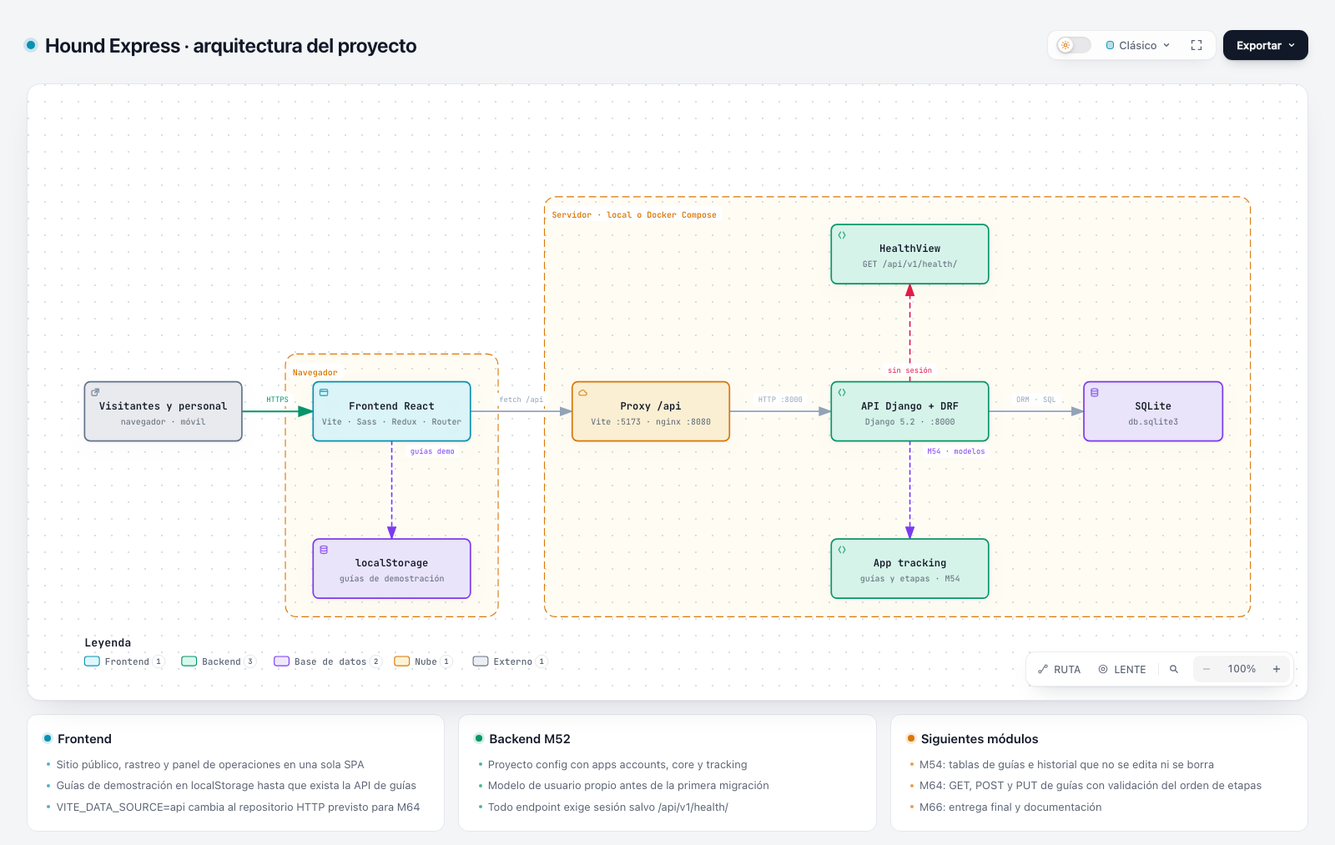
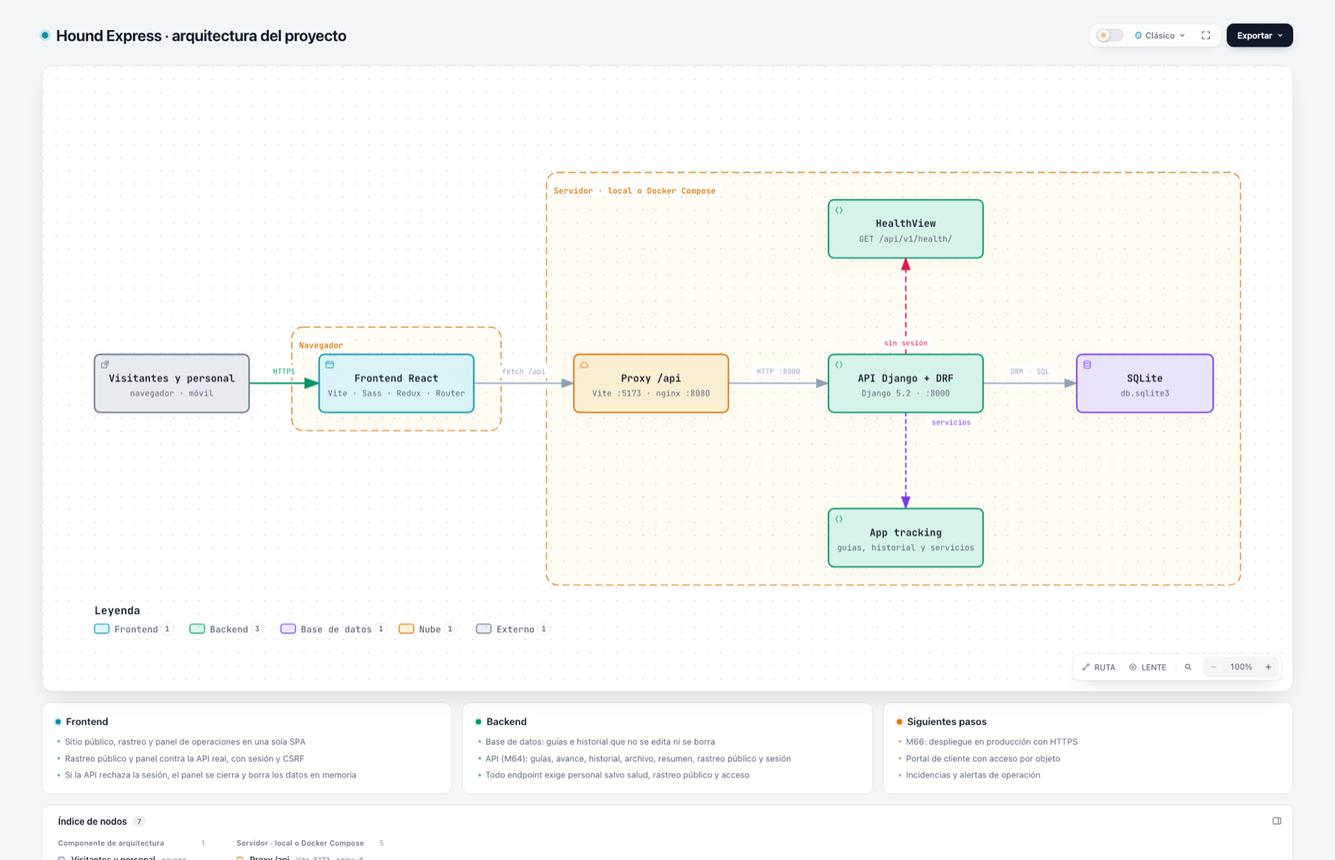
docs(diagramas): actualiza arquitectura y secuencia con la API real

diff --git a/docs/diagramas/arquitectura.html b/docs/diagramas/arquitectura.html
@@ -5013,7 +5013,7 @@ OTHER DEALINGS IN THE FONT SOFTWARE.
         <rect width="100%" height="100%" fill="url(#grid)" />
 
         <!-- Boundaries (behind everything) -->
-        <rect data-graph-role="structural-frame" data-composition-frame-kind="region" data-composition-frame-id="0" data-composition-frame-label="Navegador" x="257" y="270" width="230" height="284" rx="12" class="c-region" stroke-width="1"/>
+        <rect data-graph-role="structural-frame" data-composition-frame-kind="region" data-composition-frame-id="0" data-composition-frame-label="Navegador" x="257" y="270" width="230" height="114" rx="12" class="c-region" stroke-width="1"/>
 
         <rect data-graph-role="structural-frame" data-composition-frame-kind="region" data-composition-frame-id="1" data-composition-frame-label="Servidor · local o Docker Compose" x="537" y="100" width="763" height="454" rx="12" class="c-region" stroke-width="1"/>
 
@@ -5035,16 +5035,12 @@ OTHER DEALINGS IN THE FONT SOFTWARE.
           <path data-edge-from="api" data-edge-to="db" data-edge-label="ORM · SQL" data-edge-key="3" data-edge-id="api-db" data-composition-points="1017,332;1120,332" data-composition-crossover="halo" data-composition-independent="true" d="M 1017 332 L 1120 332" class="a-default" stroke-width="1.5" marker-end="url(#arrowhead)"/>
         </g>
         <g data-graph-role="automatic-crossover" style="--step:4">
-          <path data-graph-role="automatic-crossover-underlay" d="M 372 364 L 372 470" fill="none" stroke="var(--mask)" stroke-width="5.5" stroke-linecap="round" stroke-linejoin="round" pointer-events="none"/>
-          <path data-edge-from="spa" data-edge-to="storage" data-edge-label="guías demo" data-edge-key="4" data-edge-id="spa-storage" data-composition-points="372,364;372,470" data-composition-crossover="halo" d="M 372 364 L 372 470" class="a-dashed" stroke-width="1.5" marker-end="url(#arrowhead-dashed)"/>
+          <path data-graph-role="automatic-crossover-underlay" d="M 932 364 L 932 470" fill="none" stroke="var(--mask)" stroke-width="5.5" stroke-linecap="round" stroke-linejoin="round" pointer-events="none"/>
+          <path data-edge-from="api" data-edge-to="tracking" data-edge-label="servicios" data-edge-key="4" data-edge-id="api-tracking" data-composition-points="932,364;932,470" data-composition-crossover="halo" d="M 932 364 L 932 470" class="a-dashed" stroke-width="1.5" marker-end="url(#arrowhead-dashed)"/>
         </g>
         <g data-graph-role="automatic-crossover" style="--step:5">
-          <path data-graph-role="automatic-crossover-underlay" d="M 932 364 L 932 470" fill="none" stroke="var(--mask)" stroke-width="5.5" stroke-linecap="round" stroke-linejoin="round" pointer-events="none"/>
-          <path data-edge-from="api" data-edge-to="tracking" data-edge-label="M54 · modelos" data-edge-key="5" data-edge-id="api-tracking" data-composition-points="932,364;932,470" data-composition-crossover="halo" d="M 932 364 L 932 470" class="a-dashed" stroke-width="1.5" marker-end="url(#arrowhead-dashed)"/>
-        </g>
-        <g data-graph-role="automatic-crossover" style="--step:6">
           <path data-graph-role="automatic-crossover-underlay" d="M 932 300 L 932 194" fill="none" stroke="var(--mask)" stroke-width="5.5" stroke-linecap="round" stroke-linejoin="round" pointer-events="none"/>
-          <path data-edge-from="api" data-edge-to="health" data-edge-label="sin sesión" data-edge-key="6" data-edge-id="api-health" data-composition-points="932,300;932,194" data-composition-crossover="halo" data-composition-independent="true" d="M 932 300 L 932 194" class="a-security" stroke-width="1.5" marker-end="url(#arrowhead-security)"/>
+          <path data-edge-from="api" data-edge-to="health" data-edge-label="sin sesión" data-edge-key="5" data-edge-id="api-health" data-composition-points="932,300;932,194" data-composition-crossover="halo" data-composition-independent="true" d="M 932 300 L 932 194" class="a-security" stroke-width="1.5" marker-end="url(#arrowhead-security)"/>
         </g>
 
         <!-- Components -->
@@ -5108,27 +5104,15 @@ OTHER DEALINGS IN THE FONT SOFTWARE.
         <text data-detail="context" x="1195" y="346" class="t-muted" font-size="9" text-anchor="middle">db.sqlite3</text>
         </g>
 
-        <g id="node-storage" data-node-id="storage" data-node-label="localStorage" tabindex="0" role="button" aria-label="Enfocar localStorage, guías de demostración, Navegador" aria-pressed="false" data-node-kind="database" data-node-sublabel="guías de demostración" data-node-context="Navegador">
-          <title>localStorage · guías de demostración · Navegador</title>
-          <rect x="287" y="470" width="170" height="64" rx="6" class="c-mask"/>
-          <rect x="287" y="470" width="170" height="64" rx="6" class="c-database" stroke-width="1.5"/>
-          <g aria-hidden="true" data-semantic-sigil="database" class="semantic-sigil s-database" transform="translate(293 476) scale(0.6875)">
-            <ellipse cx="8" cy="4" rx="5" ry="2"/>
-            <path d="M3 4v8c0 1.1 2.2 2 5 2s5-.9 5-2V4M3 8c0 1.1 2.2 2 5 2s5-.9 5-2"/>
-          </g>
-          <text data-node-label="" data-detail-anchor="" x="372" y="500" class="t-primary" font-size="11" font-weight="600" text-anchor="middle">localStorage</text>
-        <text data-detail="context" x="372" y="516" class="t-muted" font-size="9" text-anchor="middle">guías de demostración</text>
-        </g>
-
-        <g id="node-tracking" data-node-id="tracking" data-node-label="App tracking" tabindex="0" role="button" aria-label="Enfocar App tracking, guías y etapas · M54, Servidor · local o Docker Compose" aria-pressed="false" data-node-kind="backend" data-node-sublabel="guías y etapas · M54" data-node-tag="planeado" data-node-context="Servidor · local o Docker Compose">
-          <title>App tracking · guías y etapas · M54 · Servidor · local o Docker Compose · planeado</title>
+        <g id="node-tracking" data-node-id="tracking" data-node-label="App tracking" tabindex="0" role="button" aria-label="Enfocar App tracking, guías, historial y servicios, Servidor · local o Docker Compose" aria-pressed="false" data-node-kind="backend" data-node-sublabel="guías, historial y servicios" data-node-tag="planeado" data-node-context="Servidor · local o Docker Compose">
+          <title>App tracking · guías, historial y servicios · Servidor · local o Docker Compose · planeado</title>
           <rect x="847" y="470" width="170" height="64" rx="6" class="c-mask"/>
           <rect x="847" y="470" width="170" height="64" rx="6" class="c-backend" stroke-width="1.5"/>
           <g aria-hidden="true" data-semantic-sigil="backend" class="semantic-sigil s-backend" transform="translate(853 476) scale(0.6875)">
             <path d="M6 3 3 8l3 5M10 3l3 5-3 5"/>
           </g>
           <text data-node-label="" data-detail-anchor="" x="932" y="500" class="t-primary" font-size="11" font-weight="600" text-anchor="middle">App tracking</text>
-        <text data-detail="context" x="932" y="516" class="t-muted" font-size="9" text-anchor="middle">guías y etapas · M54</text>
+        <text data-detail="context" x="932" y="516" class="t-muted" font-size="9" text-anchor="middle">guías, historial y servicios</text>
         <text data-detail="fine" x="932" y="526" class="t-backend" font-size="7" text-anchor="middle">planeado</text>
         </g>
 
@@ -5161,15 +5145,11 @@ OTHER DEALINGS IN THE FONT SOFTWARE.
           <rect x="1041.9" y="312" width="53.199999999999996" height="14" rx="3" class="c-mask"/>
           <text x="1068.5" y="322" class="t-edge-default" font-size="8" text-anchor="middle">ORM · SQL</text>
         </g>
-        <g data-detail="context" data-edge-from="spa" data-edge-to="storage" data-edge-label="guías demo" data-edge-key="4" data-edge-id="spa-storage">
-          <rect x="387" y="368" width="58" height="14" rx="3" class="c-mask"/>
-          <text x="416" y="378" class="t-edge-dashed" font-size="8" text-anchor="middle">guías demo</text>
+        <g data-detail="context" data-edge-from="api" data-edge-to="tracking" data-edge-label="servicios" data-edge-key="4" data-edge-id="api-tracking">
+          <rect x="955.4" y="368" width="53.199999999999996" height="14" rx="3" class="c-mask"/>
+          <text x="982" y="378" class="t-edge-dashed" font-size="8" text-anchor="middle">servicios</text>
         </g>
-        <g data-detail="context" data-edge-from="api" data-edge-to="tracking" data-edge-label="M54 · modelos" data-edge-key="5" data-edge-id="api-tracking">
-          <rect x="945.8" y="368" width="72.4" height="14" rx="3" class="c-mask"/>
-          <text x="982" y="378" class="t-edge-dashed" font-size="8" text-anchor="middle">M54 · modelos</text>
-        </g>
-        <g data-detail="context" data-edge-from="api" data-edge-to="health" data-edge-label="sin sesión" data-edge-key="6" data-edge-id="api-health">
+        <g data-detail="context" data-edge-from="api" data-edge-to="health" data-edge-label="sin sesión" data-edge-key="5" data-edge-id="api-health">
           <rect x="903" y="280" width="58" height="14" rx="3" class="c-mask"/>
           <text x="932" y="290" class="t-edge-security" font-size="8" text-anchor="middle">sin sesión</text>
         </g>
@@ -5392,32 +5372,32 @@ OTHER DEALINGS IN THE FONT SOFTWARE.
         </div>
         <ul>
           <li>Sitio público, rastreo y panel de operaciones en una sola SPA</li>
-          <li>Guías de demostración en localStorage hasta que exista la API de guías</li>
-          <li>VITE_DATA_SOURCE=api cambia al repositorio HTTP previsto para M64</li>
+          <li>Rastreo público y panel contra la API real, con sesión y CSRF</li>
+          <li>Si la API rechaza la sesión, el panel se cierra y borra los datos en memoria</li>
         </ul>
       </div>
 
       <div class="card">
         <div class="card-header">
           <div class="card-dot emerald"></div>
-          <h3>Backend M52</h3>
+          <h3>Backend</h3>
         </div>
         <ul>
-          <li>Proyecto config con apps accounts, core y tracking</li>
-          <li>Modelo de usuario propio antes de la primera migración</li>
-          <li>Todo endpoint exige sesión salvo /api/v1/health/</li>
+          <li>Base de datos: guías e historial que no se edita ni se borra</li>
+          <li>API (M64): guías, avance, historial, archivo, resumen, rastreo público y sesión</li>
+          <li>Todo endpoint exige personal salvo salud, rastreo público y acceso</li>
         </ul>
       </div>
 
       <div class="card">
         <div class="card-header">
           <div class="card-dot amber"></div>
-          <h3>Siguientes módulos</h3>
+          <h3>Siguientes pasos</h3>
         </div>
         <ul>
-          <li>M54: tablas de guías e historial que no se edita ni se borra</li>
-          <li>M64: GET, POST y PUT de guías con validación del orden de etapas</li>
-          <li>M66: entrega final y documentación</li>
+          <li>M66: despliegue en producción con HTTPS</li>
+          <li>Portal de cliente con acceso por objeto</li>
+          <li>Incidencias y alertas de operación</li>
         </ul>
       </div>
     </div>

diff --git a/docs/diagramas/secuencia-consultas.html b/docs/diagramas/secuencia-consultas.html
@@ -5135,19 +5135,19 @@ OTHER DEALINGS IN THE FONT SOFTWARE.
         </g>
         </g>
 
-        <g data-edge-from="repo" data-edge-to="api" data-edge-label="GET /api/v1/guides/{n}/" data-edge-key="11" data-edge-id="api-http">
-          <path data-composition-edge-from="repo" data-composition-edge-to="api" data-composition-edge-id="api-http" data-composition-points="478,575;634.75,575" d="M 478 575 L 634.75 575" class="a-dashed" stroke-width="1.4" marker-end="url(#arrowhead-dashed)"/>
+        <g data-edge-from="repo" data-edge-to="api" data-edge-label="GET /api/v1/public/track/?numbers=n" data-edge-key="11" data-edge-id="api-http">
+          <path data-composition-edge-from="repo" data-composition-edge-to="api" data-composition-edge-id="api-http" data-composition-points="478,575;634.75,575" d="M 478 575 L 634.75 575" class="a-default" stroke-width="1.4" marker-end="url(#arrowhead)"/>
         <g data-detail="context">
-          <rect x="474.475" y="555" width="163.79999999999998" height="18" rx="3" class="c-mask"/>
-          <text x="556.375" y="565" class="t-edge-dashed" font-size="11" text-anchor="middle">GET /api/v1/guides/{n}/</text>
+          <rect x="434.875" y="555" width="243" height="18" rx="3" class="c-mask"/>
+          <text x="556.375" y="565" class="t-muted" font-size="11" text-anchor="middle">GET /api/v1/public/track/?numbers=n</text>
         </g>
         </g>
 
         <g data-edge-from="api" data-edge-to="db" data-edge-label="guía e historial" data-edge-key="12" data-edge-id="api-query">
-          <path data-composition-edge-from="api" data-composition-edge-to="db" data-composition-edge-id="api-query" data-composition-points="648.75,605;805.5,605" d="M 648.75 605 L 805.5 605" class="a-dashed" stroke-width="1.4" marker-end="url(#arrowhead-dashed)"/>
+          <path data-composition-edge-from="api" data-composition-edge-to="db" data-composition-edge-id="api-query" data-composition-points="648.75,605;805.5,605" d="M 648.75 605 L 805.5 605" class="a-default" stroke-width="1.4" marker-end="url(#arrowhead)"/>
         <g data-detail="context">
           <rect x="668.325" y="585" width="117.6" height="18" rx="3" class="c-mask"/>
-          <text x="727.125" y="595" class="t-edge-dashed" font-size="11" text-anchor="middle">guía e historial</text>
+          <text x="727.125" y="595" class="t-muted" font-size="11" text-anchor="middle">guía e historial</text>
         </g>
         </g>
 
@@ -5181,12 +5181,12 @@ OTHER DEALINGS IN THE FONT SOFTWARE.
           <text x="62" y="141" class="t-dim" font-size="9" font-weight="600">Estado de la API · real desde M52</text>
         </g>
         <g data-graph-role="segment-label" data-segment-id="1">
-          <rect x="56" y="303" width="175.20000000000002" height="18" rx="3" class="c-mask"/>
-          <text x="62" y="316" class="t-dim" font-size="9" font-weight="600">Rastreo · datos de demostración</text>
+          <rect x="56" y="303" width="180.4" height="18" rx="3" class="c-mask"/>
+          <text x="62" y="316" class="t-dim" font-size="9" font-weight="600">Pruebas · repositorio en memoria</text>
         </g>
         <g data-graph-role="segment-label" data-segment-id="2">
-          <rect x="56" y="458" width="201.20000000000002" height="18" rx="3" class="c-mask"/>
-          <text x="62" y="471" class="t-dim" font-size="9" font-weight="600">Rastreo · VITE_DATA_SOURCE=api (M64)</text>
+          <rect x="56" y="458" width="190.8" height="18" rx="3" class="c-mask"/>
+          <text x="62" y="471" class="t-dim" font-size="9" font-weight="600">Rastreo público contra la API real</text>
         </g>
 
         <!-- Participants -->
@@ -5216,8 +5216,8 @@ OTHER DEALINGS IN THE FONT SOFTWARE.
           <text data-detail="context" x="300.25" y="122" class="t-muted" font-size="7" text-anchor="middle">páginas y hooks</text>
         </g>
 
-        <g id="node-repo" data-node-id="repo" data-node-label="GuideRepository" tabindex="0" role="button" aria-label="Enfocar GuideRepository, demo o HTTP, Participante de secuencia" aria-pressed="false" data-node-kind="frontend" data-node-sublabel="demo o HTTP" data-node-context="Participante de secuencia">
-          <title>GuideRepository · demo o HTTP · Participante de secuencia</title>
+        <g id="node-repo" data-node-id="repo" data-node-label="GuideRepository" tabindex="0" role="button" aria-label="Enfocar GuideRepository, cliente HTTP, Participante de secuencia" aria-pressed="false" data-node-kind="frontend" data-node-sublabel="cliente HTTP" data-node-context="Participante de secuencia">
+          <title>GuideRepository · cliente HTTP · Participante de secuencia</title>
           <rect x="403.5" y="72" width="135" height="60" rx="6" class="c-mask"/>
           <rect x="403.5" y="72" width="135" height="60" rx="6" class="c-frontend" stroke-width="1.5"/>
           <g aria-hidden="true" data-semantic-sigil="frontend" class="semantic-sigil s-frontend" transform="translate(409.5 78) scale(0.6875)">
@@ -5227,7 +5227,7 @@ OTHER DEALINGS IN THE FONT SOFTWARE.
             <circle cx="6.3" cy="4.8" r=".7" class="sigil-fill"/>
           </g>
           <text data-node-label="" data-detail-anchor="" x="471" y="108" class="t-primary" font-size="11" font-weight="600" text-anchor="middle">GuideRepository</text>
-          <text data-detail="context" x="471" y="122" class="t-muted" font-size="7" text-anchor="middle">demo o HTTP</text>
+          <text data-detail="context" x="471" y="122" class="t-muted" font-size="7" text-anchor="middle">cliente HTTP</text>
         </g>
 
         <g id="node-api" data-node-id="api" data-node-label="API Django" tabindex="0" role="button" aria-label="Enfocar API Django, /api/v1/, Participante de secuencia" aria-pressed="false" data-node-kind="backend" data-node-sublabel="/api/v1/" data-node-context="Participante de secuencia">
@@ -5264,13 +5264,9 @@ OTHER DEALINGS IN THE FONT SOFTWARE.
             <path d="M 200 751 L 234 751" class="a-default" stroke-width="1.4" stroke-dasharray="3,5" marker-end="url(#arrowhead)"/>
             <text x="243" y="754" class="t-muted" font-size="10" font-weight="500">respuesta</text>
           </g>
-          <g data-legend-semantic-kind="dashed" data-legend-x="310" data-legend-baseline="754" data-legend-width="118">
-            <path d="M 310 751 L 344 751" class="a-dashed" stroke-width="1.4" marker-end="url(#arrowhead-dashed)"/>
-            <text x="353" y="754" class="t-muted" font-size="10" font-weight="500">traza asíncrona</text>
-          </g>
-          <g data-legend-semantic-kind="default" data-legend-x="450" data-legend-baseline="754" data-legend-width="78">
-            <path d="M 450 751 L 484 751" class="a-default" stroke-width="1.4" marker-end="url(#arrowhead)"/>
-            <text x="493" y="754" class="t-muted" font-size="10" font-weight="500">mensaje</text>
+          <g data-legend-semantic-kind="default" data-legend-x="310" data-legend-baseline="754" data-legend-width="78">
+            <path d="M 310 751 L 344 751" class="a-default" stroke-width="1.4" marker-end="url(#arrowhead)"/>
+            <text x="353" y="754" class="t-muted" font-size="10" font-weight="500">mensaje</text>
           </g>
         </g>
       </svg>
@@ -5464,23 +5460,23 @@ OTHER DEALINGS IN THE FONT SOFTWARE.
       <div class="card">
         <div class="card-header">
           <div class="card-dot amber"></div>
-          <h3>Demostración</h3>
+          <h3>Pruebas</h3>
         </div>
         <ul>
-          <li>demoRepository lee y escribe guías en localStorage</li>
-          <li>La interfaz lo indica con el aviso de datos de demostración</li>
+          <li>demoRepository solo se usa en las pruebas de Jest</li>
+          <li>La interfaz usa la API por defecto</li>
         </ul>
       </div>
 
       <div class="card">
         <div class="card-header">
           <div class="card-dot cyan"></div>
-          <h3>Cuando llegue M64</h3>
+          <h3>Rastreo real</h3>
         </div>
         <ul>
-          <li>httpRepository llama a /api/v1/guides/</li>
-          <li>404 se muestra como guía no encontrada</li>
-          <li>Los mensajes punteados todavía no existen en el backend</li>
+          <li>GuideRepository normaliza el número y llama a la API</li>
+          <li>Responde con campos mínimos y una ciudad de la lista cerrada</li>
+          <li>Un número inexistente se muestra como no encontrado</li>
         </ul>
       </div>
     </div>

diff --git a/docs/diagramas/fuentes/generar.py b/docs/diagramas/fuentes/generar.py
@@ -48,9 +48,7 @@ def architecture() -> dict:
         x += width
     pos = {c["id"]: c["pos"] for c in components}
     components += [
-        {"id": "storage", "type": "database", "label": "localStorage", "sublabel": "guías de demostración",
-         "pos": [pos["spa"][0], 470], "size": [170, h]},
-        {"id": "tracking", "type": "backend", "label": "App tracking", "sublabel": "guías y etapas · M54",
+        {"id": "tracking", "type": "backend", "label": "App tracking", "sublabel": "guías, historial y servicios",
          "pos": [pos["api"][0], 470], "size": [170, h], "tag": "planeado"},
         {"id": "health", "type": "backend", "label": "HealthView", "sublabel": "GET /api/v1/health/",
          "pos": [pos["api"][0], 130], "size": [170, h], "tag": "público"},
@@ -61,7 +59,7 @@ def architecture() -> dict:
         "meta": meta("Hound Express · arquitectura del proyecto", "arquitectura"),
         "components": components,
         "boundaries": [
-            {"kind": "region", "label": "Navegador", "wraps": ["spa", "storage"]},
+            {"kind": "region", "label": "Navegador", "wraps": ["spa"]},
             {"kind": "region", "label": "Servidor · local o Docker Compose",
              "wraps": ["proxy", "api", "db", "tracking", "health"]},
         ],
@@ -70,9 +68,7 @@ def architecture() -> dict:
             {"id": "spa-proxy", "from": "spa", "to": "proxy", "label": "fetch /api"},
             {"id": "proxy-api", "from": "proxy", "to": "api", "label": "HTTP :8000"},
             {"id": "api-db", "from": "api", "to": "db", "label": "ORM · SQL"},
-            {"id": "spa-storage", "from": "spa", "to": "storage", "label": "guías demo", "variant": "dashed",
-             "fromSide": "bottom", "toSide": "top", "labelAt": [416, 378]},
-            {"id": "api-tracking", "from": "api", "to": "tracking", "label": "M54 · modelos", "variant": "dashed",
+            {"id": "api-tracking", "from": "api", "to": "tracking", "label": "servicios", "variant": "dashed",
              "fromSide": "bottom", "toSide": "top", "labelAt": [982, 378]},
             {"id": "api-health", "from": "api", "to": "health", "label": "sin sesión", "variant": "security",
              "fromSide": "top", "toSide": "bottom"},
@@ -80,16 +76,16 @@ def architecture() -> dict:
         "cards": [
             {"dot": "cyan", "title": "Frontend", "items": [
                 "Sitio público, rastreo y panel de operaciones en una sola SPA",
-                "Guías de demostración en localStorage hasta que exista la API de guías",
-                "VITE_DATA_SOURCE=api cambia al repositorio HTTP previsto para M64"]},
-            {"dot": "emerald", "title": "Backend M52", "items": [
-                "Proyecto config con apps accounts, core y tracking",
-                "Modelo de usuario propio antes de la primera migración",
-                "Todo endpoint exige sesión salvo /api/v1/health/"]},
-            {"dot": "amber", "title": "Siguientes módulos", "items": [
-                "M54: tablas de guías e historial que no se edita ni se borra",
-                "M64: GET, POST y PUT de guías con validación del orden de etapas",
-                "M66: entrega final y documentación"]},
+                "Rastreo público y panel contra la API real, con sesión y CSRF",
+                "Si la API rechaza la sesión, el panel se cierra y borra los datos en memoria"]},
+            {"dot": "emerald", "title": "Backend", "items": [
+                "Base de datos: guías e historial que no se edita ni se borra",
+                "API (M64): guías, avance, historial, archivo, resumen, rastreo público y sesión",
+                "Todo endpoint exige personal salvo salud, rastreo público y acceso"]},
+            {"dot": "amber", "title": "Siguientes pasos", "items": [
+                "M66: despliegue en producción con HTTPS",
+                "Portal de cliente con acceso por objeto",
+                "Incidencias y alertas de operación"]},
         ],
     }
 
@@ -144,14 +140,14 @@ def sequence() -> dict:
         "participants": [
             {"id": "user", "type": "external", "label": "Usuario", "sublabel": "visitante o personal"},
             {"id": "web", "type": "frontend", "label": "Frontend React", "sublabel": "páginas y hooks"},
-            {"id": "repo", "type": "frontend", "label": "GuideRepository", "sublabel": "demo o HTTP"},
+            {"id": "repo", "type": "frontend", "label": "GuideRepository", "sublabel": "cliente HTTP"},
             {"id": "api", "type": "backend", "label": "API Django", "sublabel": "/api/v1/"},
             {"id": "db", "type": "database", "label": "SQLite", "sublabel": "db.sqlite3"},
         ],
         "segments": [
             {"from": 150, "to": 310, "label": "Estado de la API · real desde M52"},
-            {"from": 325, "to": 465, "label": "Rastreo · datos de demostración"},
-            {"from": 480, "to": 710, "label": "Rastreo · VITE_DATA_SOURCE=api (M64)"},
+            {"from": 325, "to": 465, "label": "Pruebas · repositorio en memoria"},
+            {"from": 480, "to": 710, "label": "Rastreo público contra la API real"},
         ],
         "messages": [
             {"id": "health-get", "from": "web", "to": "api", "y": 175, "label": "GET /api/v1/health/", "variant": "emphasis"},
@@ -165,8 +161,8 @@ def sequence() -> dict:
             {"id": "demo-render", "from": "web", "to": "user", "y": 450, "label": "línea de tiempo", "variant": "return"},
             {"id": "api-input", "from": "user", "to": "web", "y": 515, "label": "número de guía"},
             {"id": "api-get", "from": "web", "to": "repo", "y": 545, "label": "get(número)"},
-            {"id": "api-http", "from": "repo", "to": "api", "y": 575, "label": "GET /api/v1/guides/{n}/", "variant": "dashed"},
-            {"id": "api-query", "from": "api", "to": "db", "y": 605, "label": "guía e historial", "variant": "dashed"},
+            {"id": "api-http", "from": "repo", "to": "api", "y": 575, "label": "GET /api/v1/public/track/?numbers=n"},
+            {"id": "api-query", "from": "api", "to": "db", "y": 605, "label": "guía e historial"},
             {"id": "api-rows", "from": "db", "to": "api", "y": 635, "label": "filas", "variant": "return"},
             {"id": "api-json", "from": "api", "to": "repo", "y": 665, "label": "200 JSON o 404", "variant": "return"},
             {"id": "api-result", "from": "repo", "to": "web", "y": 695, "label": "Guide o null", "variant": "return"},
@@ -187,13 +183,13 @@ def sequence() -> dict:
                 "El panel y el pie consultan /api/v1/health/",
                 "La vista hace SELECT 1 y responde 503 si la base falla",
                 "Vite o nginx reenvían /api al puerto 8000: mismo origen, sin CORS"]},
-            {"dot": "amber", "title": "Demostración", "items": [
-                "demoRepository lee y escribe guías en localStorage",
-                "La interfaz lo indica con el aviso de datos de demostración"]},
-            {"dot": "cyan", "title": "Cuando llegue M64", "items": [
-                "httpRepository llama a /api/v1/guides/",
-                "404 se muestra como guía no encontrada",
-                "Los mensajes punteados todavía no existen en el backend"]},
+            {"dot": "amber", "title": "Pruebas", "items": [
+                "demoRepository solo se usa en las pruebas de Jest",
+                "La interfaz usa la API por defecto"]},
+            {"dot": "cyan", "title": "Rastreo real", "items": [
+                "GuideRepository normaliza el número y llama a la API",
+                "Responde con campos mínimos y una ciudad de la lista cerrada",
+                "Un número inexistente se muestra como no encontrado"]},
         ],
     }
 
